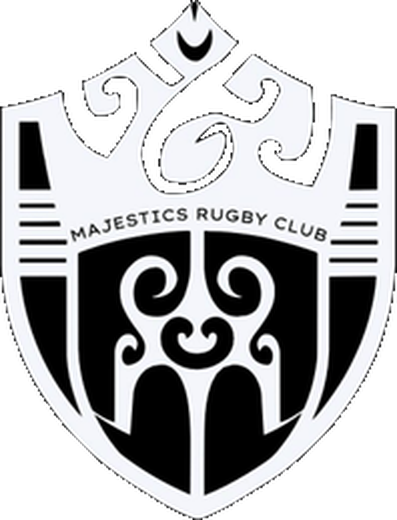
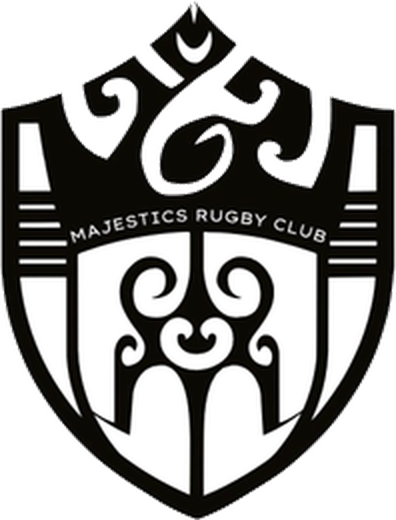
Six divisions, hero CTAs, live EOI + payment links, no em dashes
- Divisions: replace the five with the six from the referee form (HS Boys
  Single School, HS Boys/Girls Club Elite/Premier, U16 Boys Elite); update the
  Basics card, FAQ, EOI dropdown and meta accordingly
- Hero: swap the lead paragraph for Expression of Interest + Register & Pay CTAs
- Entry: live Zeffy registration-payment button (was "coming soon")
- Wire INTEREST_FORM_URL to the Google Form
- Invert Majestics + Emmett logos to black-on-white (drop their dark chips)
- Remove all em dashes site-wide

diff --git a/index.html b/index.html
@@ -4,7 +4,7 @@
 <meta charset="UTF-8">
 <meta name="viewport" content="width=device-width, initial-scale=1.0">
 <title>Montana Invitational High School Rugby Tournament | April 24&ndash;25, 2027 · Bozeman, Montana</title>
-<meta name="description" content="The Montana Invitational High School Rugby Tournament. Two days at Bozeman Sports Park, Saturday 24 and Sunday 25 April 2027. Boys and girls XVs across five divisions.">
+<meta name="description" content="The Montana Invitational High School Rugby Tournament. Two days at Bozeman Sports Park, Saturday 24 and Sunday 25 April 2027. Boys and girls XVs across six divisions.">
 <!-- Canonical/OG URLs point at the live GitHub Pages address. If a custom
      domain (montanainvitational.com) is added later, swap these plus
      sitemap.xml and robots.txt, and add a CNAME file, or search engines keep
@@ -13,13 +13,13 @@
 <meta property="og:type" content="website">
 <meta property="og:url" content="https://bengfreund-web.github.io/montana-invitational/">
 <meta property="og:title" content="Montana Invitational High School Rugby Tournament">
-<meta property="og:description" content="The Montana Invitational High School Rugby Tournament. Two days at Bozeman Sports Park, Saturday 24 and Sunday 25 April 2027. Boys and girls XVs across five divisions.">
+<meta property="og:description" content="The Montana Invitational High School Rugby Tournament. Two days at Bozeman Sports Park, Saturday 24 and Sunday 25 April 2027. Boys and girls XVs across six divisions.">
 <meta property="og:image" content="https://bengfreund-web.github.io/montana-invitational/img/og-image.png">
 <meta property="og:image:width" content="1200">
 <meta property="og:image:height" content="630">
 <meta name="twitter:card" content="summary_large_image">
 <meta name="twitter:title" content="Montana Invitational High School Rugby Tournament">
-<meta name="twitter:description" content="The Montana Invitational High School Rugby Tournament. Two days at Bozeman Sports Park, Saturday 24 and Sunday 25 April 2027. Boys and girls XVs across five divisions.">
+<meta name="twitter:description" content="The Montana Invitational High School Rugby Tournament. Two days at Bozeman Sports Park, Saturday 24 and Sunday 25 April 2027. Boys and girls XVs across six divisions.">
 <meta name="twitter:image" content="https://bengfreund-web.github.io/montana-invitational/img/og-image.png">
 <meta name="theme-color" content="#241a0c">
 <link rel="icon" href="favicon.ico" sizes="any">
@@ -29,7 +29,7 @@
 <link rel="preconnect" href="https://fonts.googleapis.com">
 <link rel="preconnect" href="https://fonts.gstatic.com" crossorigin>
 <link href="https://fonts.googleapis.com/css2?family=Oswald:wght@500;600;700&family=Poppins:wght@400;500;600;700&display=swap" rel="stylesheet">
-<link rel="stylesheet" href="css/styles.css?v=1787340241">
+<link rel="stylesheet" href="css/styles.css?v=1787340629">
 <!-- Set before first paint: CSS hides the hero copy only when JS is
      available to animate it back in, so nothing flashes on load and
      no-JS users still get the full hero. -->
@@ -41,7 +41,7 @@
 
 <!-- Shown while the full-resolution hero buffers. CSS reveals it only when the
      `js` class is present, and hero-sequence.js dismisses it immediately for
-     poster-only clients, on error, or on a hard timeout — it can never trap
+     poster-only clients, on error, or on a hard timeout - it can never trap
      anyone behind it. -->
 <div class="site-loader" id="siteLoader" role="status" aria-label="Loading the tournament film">
   <img class="loader-mark" src="img/mi-logo-white.png" alt="Montana Invitational">
@@ -108,7 +108,10 @@
           <p class="hero-date hero-line">SATURDAY <span>24</span> &ndash; SUNDAY <span>25</span> APRIL 2027</p>
           <p class="hero-venue hero-line">Bozeman Sports Park &middot; Bozeman, MT</p>
           <div class="hero-divider hero-line"></div>
-          <p class="hero-sub hero-line">The Montana Invitational High School Rugby Tournament &mdash; two days of boys and girls XVs across five divisions, in the heart of Big Sky country.</p>
+          <div class="hero-actions hero-line">
+            <a class="btn btn-primary" href="https://docs.google.com/forms/d/e/1FAIpQLSfcyxtvMmibKBIx5zs8umNMJHdaSRjgLyagau2Ux55LMOSFIw/viewform" target="_blank" rel="noopener">Expression of Interest</a>
+            <a class="btn btn-ghost" href="https://www.zeffy.com/en-US/ticketing/2027-montana-invitational-tournament-fee" target="_blank" rel="noopener">Register &amp; Pay</a>
+          </div>
         </div>
       </div>
 
@@ -133,8 +136,8 @@
         </a>
         <a class="basic reveal" href="#divisions">
           <span class="basic-label">Divisions</span>
-          <span class="basic-value">Five divisions</span>
-          <span class="basic-note">Boys and girls, U19 and U16</span>
+          <span class="basic-value">Six divisions</span>
+          <span class="basic-note">Boys and girls, high school and U16</span>
         </a>
         <a class="basic reveal" href="#cost">
           <span class="basic-label">Cost</span>
@@ -191,11 +194,12 @@
       <p class="eyebrow reveal">Divisions</p>
       <h2 class="reveal section-title-sm">Who Takes the Pitch</h2>
 
-      <div class="division-row division-row--five">
-        <div class="division reveal"><h3>U19 Boys Elite</h3></div>
-        <div class="division reveal"><h3>U19 Boys Premier</h3></div>
-        <div class="division reveal"><h3>U19 Girls Elite</h3></div>
-        <div class="division reveal"><h3>U19 Girls Premier</h3></div>
+      <div class="division-row division-row--six">
+        <div class="division reveal"><h3>HS Boys Single School</h3></div>
+        <div class="division reveal"><h3>HS Boys Club Elite</h3></div>
+        <div class="division reveal"><h3>HS Boys Club Premier</h3></div>
+        <div class="division reveal"><h3>HS Girls Club Elite</h3></div>
+        <div class="division reveal"><h3>HS Girls Club Premier</h3></div>
         <div class="division reveal"><h3>U16 Boys Elite</h3></div>
       </div>
       <p class="division-note reveal">All players must be USA Rugby Youth &amp; High School eligible.
@@ -231,7 +235,7 @@
            link. Wire it up by swapping this span for a live <a class="btn
            btn-primary" href="…">. -->
       <div class="cost-actions reveal">
-        <span class="btn btn-disabled" role="link" aria-disabled="true" title="Registration payment opens later">Registration payment &mdash; coming soon</span>
+        <a class="btn btn-primary" href="https://www.zeffy.com/en-US/ticketing/2027-montana-invitational-tournament-fee" target="_blank" rel="noopener">Registration Payment</a>
         <a class="btn btn-ghost" href="#interest">Expression of Interest</a>
       </div>
     </div>
@@ -239,7 +243,7 @@
 
   <!-- Confirmed / Who's Coming. Rendered from the TEAMS array in js/main.js so
        adding a side is one line, and the counts derive from the data so they
-       cannot go stale. Currently framed as "Who Played in 2026" (Option A) —
+       cannot go stale. Currently framed as "Who Played in 2026" (Option A) -
        flip TEAMS_MODE to "confirmed" and empty TEAMS to switch to the 2027
        confirmed-entries framing. -->
   <section id="teams" class="section teams-section">
@@ -314,10 +318,11 @@
             <label for="division">Division interested in</label>
             <select id="division" name="division" required>
               <option value="">Select one</option>
-              <option>U19 Boys Elite</option>
-              <option>U19 Boys Premier</option>
-              <option>U19 Girls Elite</option>
-              <option>U19 Girls Premier</option>
+              <option>HS Boys Single School</option>
+              <option>HS Boys Club Elite</option>
+              <option>HS Boys Club Premier</option>
+              <option>HS Girls Club Elite</option>
+              <option>HS Girls Club Premier</option>
               <option>U16 Boys Elite</option>
               <option>More than one</option>
             </select>
@@ -385,7 +390,7 @@
           <p>Montana Institute of Sport has partnered with HBC Event Services. Competitive rates, 24/7 support, and priority bookings for the tournament. All travel party members are encouraged to book through HBC.</p>
           <!-- HBC hotel booking URL not provided yet (open item): pending link
                rather than a dead one. Swap for <a class="card-link" href="…">. -->
-          <span class="card-link is-pending">Find your hotel &mdash; coming soon</span>
+          <span class="card-link is-pending">Find your hotel - coming soon</span>
           <p class="resource-secondary">Questions:
             <a href="tel:+15053460522">505-346-0522</a> ·
             <a href="mailto:support@hbceventservices.com">support@hbceventservices.com</a></p>
@@ -422,7 +427,7 @@
         </details>
         <details class="faq-item reveal">
           <summary>What are the divisions?</summary>
-          <p>Five: U19 Boys Elite, U19 Boys Premier, U19 Girls Elite, U19 Girls Premier, and U16 Boys Elite.</p>
+          <p>Six: HS Boys Single School, HS Boys Club Elite, HS Boys Club Premier, HS Girls Club Elite, HS Girls Club Premier, and U16 Boys Elite.</p>
         </details>
         <details class="faq-item reveal">
           <summary>How is seeding decided?</summary>
@@ -486,7 +491,7 @@
 
 <footer id="contact" class="site-footer">
   <div class="wrap footer-event">
-    <p class="footer-event-title">The Montana Invitational High School Rugby Tournament &mdash; Saturday 24 and Sunday 25 April 2027</p>
+    <p class="footer-event-title">The Montana Invitational High School Rugby Tournament - Saturday 24 and Sunday 25 April 2027</p>
     <p class="footer-event-sub">Bozeman Sports Park, Bozeman, MT</p>
   </div>
   <div class="wrap footer-inner">
@@ -527,7 +532,7 @@
   </div>
 </footer>
 
-<script src="js/main.js?v=1787340241"></script>
-<script src="js/hero-sequence.js?v=1787340241"></script>
+<script src="js/main.js?v=1787340629"></script>
+<script src="js/hero-sequence.js?v=1787340629"></script>
 </body>
 </html>

diff --git a/referee.html b/referee.html
@@ -8,7 +8,7 @@
 <link rel="canonical" href="https://bengfreund-web.github.io/montana-invitational/referee.html">
 <meta property="og:type" content="website">
 <meta property="og:url" content="https://bengfreund-web.github.io/montana-invitational/referee.html">
-<meta property="og:title" content="Referee — Montana Invitational High School Rugby Tournament">
+<meta property="og:title" content="Referee - Montana Invitational High School Rugby Tournament">
 <meta property="og:description" content="Referee at the Montana Invitational, Bozeman Sports Park, 24–25 April 2027. Kit, twin share lodging and meals covered.">
 <meta property="og:image" content="https://bengfreund-web.github.io/montana-invitational/img/og-image.png">
 <meta property="og:image:width" content="1200">
@@ -23,7 +23,7 @@
 <link rel="preconnect" href="https://fonts.googleapis.com">
 <link rel="preconnect" href="https://fonts.gstatic.com" crossorigin>
 <link href="https://fonts.googleapis.com/css2?family=Oswald:wght@500;600;700&family=Poppins:wght@400;500;600;700&display=swap" rel="stylesheet">
-<link rel="stylesheet" href="css/styles.css?v=1787340241">
+<link rel="stylesheet" href="css/styles.css?v=1787340629">
 <script>document.documentElement.className += " js";</script>
 </head>
 <body>
@@ -32,7 +32,7 @@
 
 <!-- Same chrome as the main page. There is no video hero here, so
      hero-sequence.js finds no #heroTrack, drops the `js` class and the loader
-     dismisses immediately — it never traps anyone. -->
+     dismisses immediately - it never traps anyone. -->
 <div class="site-loader" id="siteLoader" role="status" aria-label="Loading">
   <img class="loader-mark" src="img/mi-logo-white.png" alt="Montana Invitational">
   <div class="loader-bar"><span class="loader-fill" id="loaderFill"></span></div>
@@ -97,7 +97,7 @@
     <div class="wrap">
       <p class="eyebrow reveal">Apply</p>
       <h2 class="reveal section-title-sm">Referee Application</h2>
-      <!-- NOTE: this is the 2026 form — its internal copy still reads "2026"
+      <!-- NOTE: this is the 2026 form - its internal copy still reads "2026"
            with the old divisions. Replace the src with the 2027 form before
            launch (open item). -->
       <div class="form-embed reveal">
@@ -124,7 +124,7 @@
 
 <footer id="contact" class="site-footer">
   <div class="wrap footer-event">
-    <p class="footer-event-title">The Montana Invitational High School Rugby Tournament &mdash; Saturday 24 and Sunday 25 April 2027</p>
+    <p class="footer-event-title">The Montana Invitational High School Rugby Tournament - Saturday 24 and Sunday 25 April 2027</p>
     <p class="footer-event-sub">Bozeman Sports Park, Bozeman, MT</p>
   </div>
   <div class="wrap footer-inner">
@@ -165,7 +165,7 @@
   </div>
 </footer>
 
-<script src="js/main.js?v=1787340241"></script>
-<script src="js/hero-sequence.js?v=1787340241"></script>
+<script src="js/main.js?v=1787340629"></script>
+<script src="js/hero-sequence.js?v=1787340629"></script>
 </body>
 </html>

diff --git a/merch.html b/merch.html
@@ -8,7 +8,7 @@
 <link rel="canonical" href="https://bengfreund-web.github.io/montana-invitational/merch.html">
 <meta property="og:type" content="website">
 <meta property="og:url" content="https://bengfreund-web.github.io/montana-invitational/merch.html">
-<meta property="og:title" content="Merch — Montana Invitational High School Rugby Tournament">
+<meta property="og:title" content="Merch - Montana Invitational High School Rugby Tournament">
 <meta property="og:description" content="Merchandise for the Montana Invitational. Details coming soon.">
 <meta property="og:image" content="https://bengfreund-web.github.io/montana-invitational/img/og-image.png">
 <meta property="og:image:width" content="1200">
@@ -23,7 +23,7 @@
 <link rel="preconnect" href="https://fonts.googleapis.com">
 <link rel="preconnect" href="https://fonts.gstatic.com" crossorigin>
 <link href="https://fonts.googleapis.com/css2?family=Oswald:wght@500;600;700&family=Poppins:wght@400;500;600;700&display=swap" rel="stylesheet">
-<link rel="stylesheet" href="css/styles.css?v=1787340241">
+<link rel="stylesheet" href="css/styles.css?v=1787340629">
 <script>document.documentElement.className += " js";</script>
 </head>
 <body>
@@ -94,7 +94,7 @@
 
 <footer id="contact" class="site-footer">
   <div class="wrap footer-event">
-    <p class="footer-event-title">The Montana Invitational High School Rugby Tournament &mdash; Saturday 24 and Sunday 25 April 2027</p>
+    <p class="footer-event-title">The Montana Invitational High School Rugby Tournament - Saturday 24 and Sunday 25 April 2027</p>
     <p class="footer-event-sub">Bozeman Sports Park, Bozeman, MT</p>
   </div>
   <div class="wrap footer-inner">
@@ -135,7 +135,7 @@
   </div>
 </footer>
 
-<script src="js/main.js?v=1787340241"></script>
-<script src="js/hero-sequence.js?v=1787340241"></script>
+<script src="js/main.js?v=1787340629"></script>
+<script src="js/hero-sequence.js?v=1787340629"></script>
 </body>
 </html>

diff --git a/js/main.js b/js/main.js
@@ -16,7 +16,7 @@ var FORM_ENDPOINT = "";
    relabels itself. While this is empty they both fall back to email,
    so neither is ever a dead control.
    ------------------------------------------------------------------ */
-var INTEREST_FORM_URL = "";
+var INTEREST_FORM_URL = "https://docs.google.com/forms/d/e/1FAIpQLSfcyxtvMmibKBIx5zs8umNMJHdaSRjgLyagau2Ux55LMOSFIw/viewform";
 
 /* ------------------------------------------------------------------
    Confirmed / Who's Coming — the team wall.
@@ -63,8 +63,8 @@ var TEAMS = [
   { name: "Silverbacks",          state: "ID", slug: "silverbacks" },
   { name: "Sacramento Jesuit",    state: "CA", slug: "sacramento-jesuit" },
   { name: "Mountain View",        state: "UT", slug: "mountain-view" },
-  { name: "Majestics",            state: "UT", slug: "majestics", dark: true },
-  { name: "Emmett Rugby Club",    state: "ID", slug: "emmett", dark: true },
+  { name: "Majestics",            state: "UT", slug: "majestics" },
+  { name: "Emmett Rugby Club",    state: "ID", slug: "emmett" },
   { name: "Cen Cal",              state: "CA", slug: "cen-cal" },
   { name: "Provo Steelers",       state: "UT", slug: "provo-steelers" },
   { name: "Santa Monica",         state: "CA", slug: "santa-monica" },

diff --git a/css/styles.css b/css/styles.css
@@ -1688,3 +1688,7 @@ a.card-link:hover { text-decoration: underline; }
   background: var(--primary-dark);
   border-color: var(--primary-dark);
 }
+
+.division-row--six { grid-template-columns: repeat(3, 1fr); }
+@media (max-width: 720px) { .division-row--six { grid-template-columns: repeat(2, 1fr); } }
+@media (max-width: 480px) { .division-row--six { grid-template-columns: 1fr; } }
